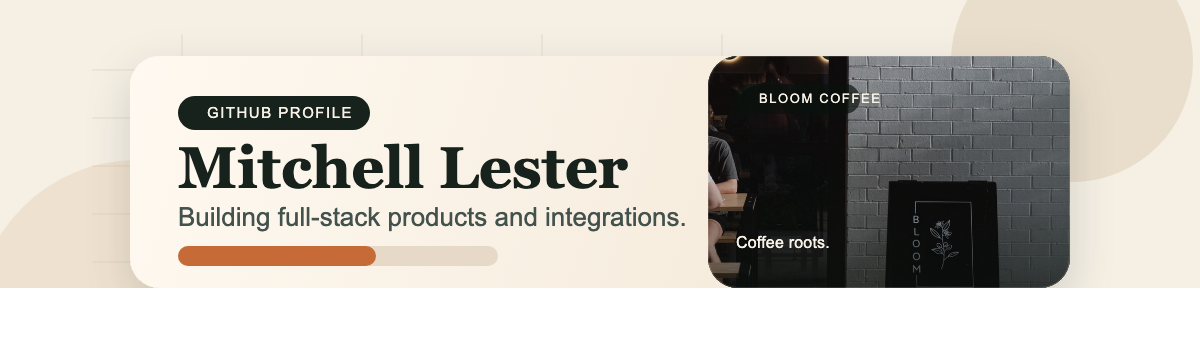
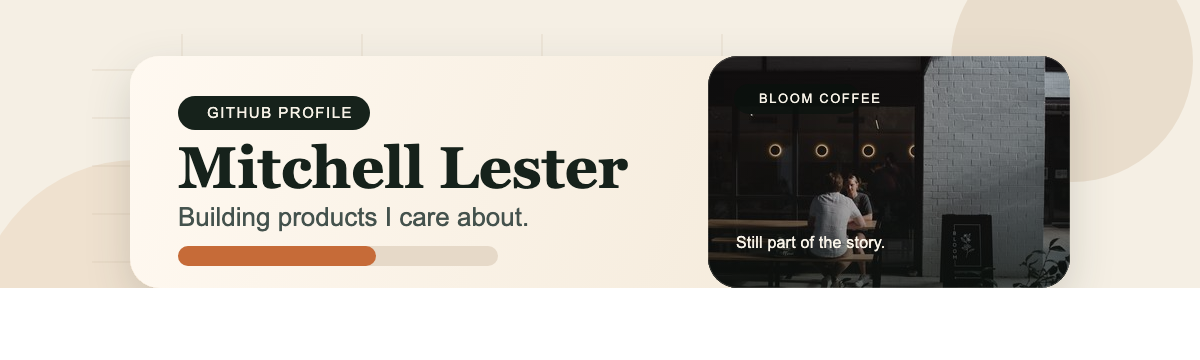
Refine profile header and about copy

Changed region(s): [[0.2158, 0.1528, 0.8942, 0.825], [0.5858, 0.3056, 0.6167, 0.3361], [0.5858, 0.1528, 0.6167, 0.1833]]

diff --git a/README.md b/README.md
@@ -10,11 +10,11 @@
 
 ## About
 
-I’m Mitchell Lester, a full stack developer currently working at me&u and building side projects through Bloom Coffee Industries.
+I’m Mitchell Lester, a full stack developer at me&u. Outside of work, I’m usually building side projects through Bloom Coffee Industries or tinkering with product ideas of my own.
 
-I’ve spent the last 5+ years building full stack products across hospitality, property, and drone technology. My work spans front-end and back-end development, with a focus on TypeScript, JavaScript, Angular, React, Java, Spring Boot, Django, REST APIs, and user-centered product development.
+Over the last 5+ years I’ve worked across hospitality, property, and drone technology, usually in roles where I can move between front-end, back-end, and integrations depending on what the product needs.
 
-Most of my recent work lives in private repositories, so this profile is a compact snapshot of the stack, domains, and kinds of systems I work on.
+Most of what I work on lives in private repositories, so this profile is really just a snapshot of the stack, domains, and kinds of systems I enjoy building.
 
 ## What I Work On
 
